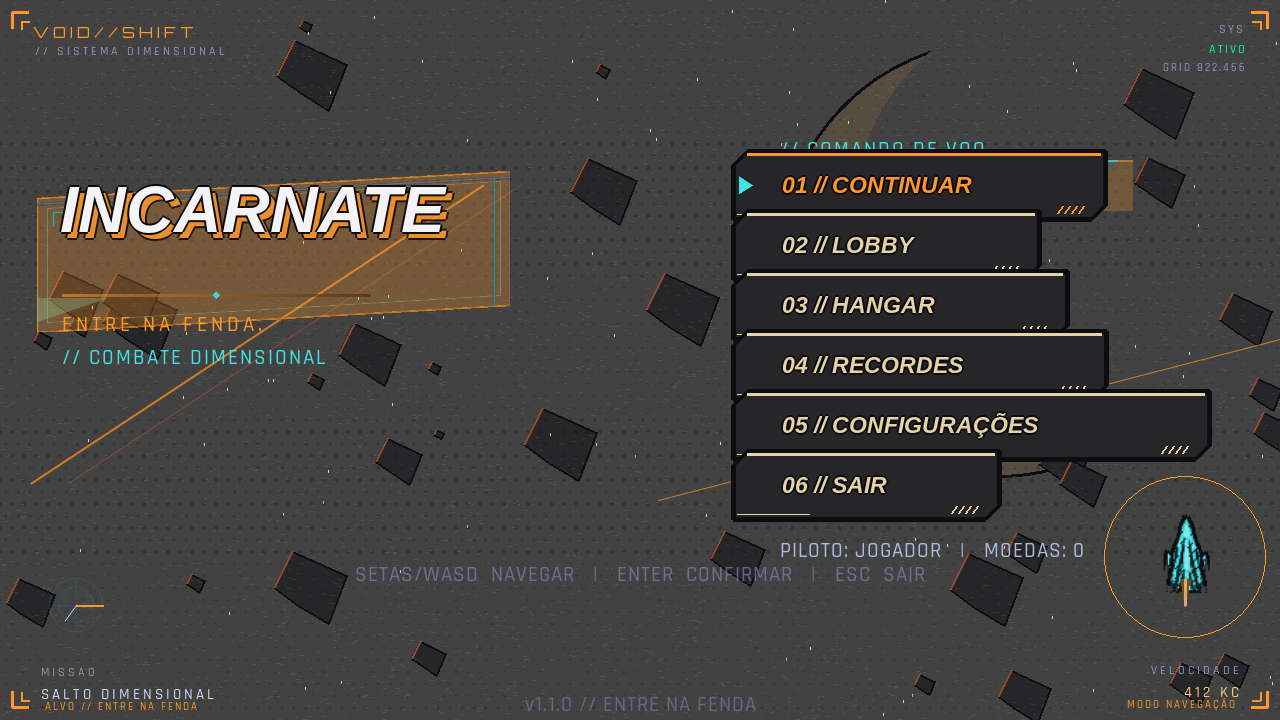
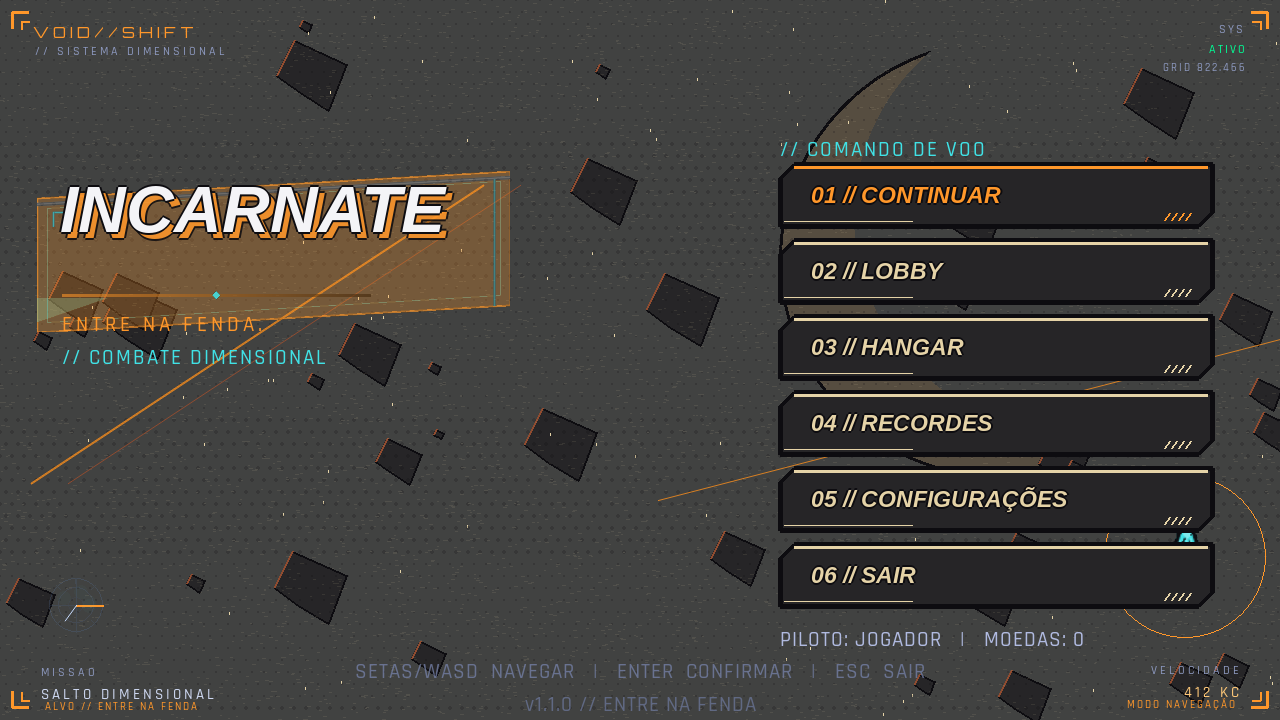
fix: uniformiza opcoes e remove indicador do menu

diff --git a/src/runtime/presentation/menu.py b/src/runtime/presentation/menu.py
@@ -84,12 +84,10 @@ def formatar_pontos(n):
 
 
 class OpcaoMenu:
-    """Opcao do menu principal com identidade visual forte na selecao.
+    """Opção do menu principal em um painel de tamanho uniforme."""
 
-    O item selecionado recebe fonte maior, glow, eco de glitch e uma linha
-    de acento; os demais permanecem discretos. A entrada e animada com um
-    deslocamento horizontal que se dissipa (efeito "saindo da tela").
-    """
+    LARGURA_PAINEL = 420
+    ALTURA_PAINEL = 60
 
     def __init__(self, texto, y, funcao):
         self.texto = texto
@@ -98,12 +96,10 @@ class OpcaoMenu:
         self.hover = False
 
     def get_rect(self, x, fonte, layout):
-        larg = fonte.size(self.texto)[0]
-        alt = fonte.get_height()
-        pad_x = layout.px(46)
-        pad_y = layout.px(16)
-        return pygame.Rect(x - pad_x, self.y - alt // 2 - pad_y,
-                           larg + pad_x * 2, alt + pad_y * 2)
+        """Retorna a mesma área de interação para todas as opções."""
+        largura = layout.px(self.LARGURA_PAINEL)
+        altura = layout.px(self.ALTURA_PAINEL)
+        return pygame.Rect(x, self.y - altura // 2, largura, altura)
 
     def atualizar(self, mouse_pos, x, fonte, layout):
         self.hover = self.get_rect(x, fonte, layout).collidepoint(mouse_pos)
@@ -129,7 +125,7 @@ class OpcaoMenu:
             self._blit(tela, painel, rect.centerx, rect.centery, alfa, centrado=True)
             surf = texto_tinta(self.texto, max(12, int(fonte.get_height() * .65)),
                               LARANJA if selecionado else PAPEL)
-            self._blit(tela, surf, x + deslocamento, self.y, alfa)
+            self._blit(tela, surf, rect.x + layout.px(28), self.y, alfa)
             return
         primaria = tema["primaria"]
         secundaria = tema["secundaria"]
@@ -144,12 +140,14 @@ class OpcaoMenu:
         surf = texto_suave(fonte_ativa, self.texto, cor,
                            primaria if selecionado else None,
                            5 if selecionado else 0, True)
-        self._blit(tela, surf, xf, y, alfa)
+        rect = self.get_rect(xf, fonte, layout)
+        self._blit(tela, surf, rect.x + layout.px(28), y, alfa)
         if selecionado and alfa >= 255:
             larg = fonte_ativa.size(self.texto)[0]
             linha_suave(tela, primaria,
-                         (xf, y + fonte_ativa.get_height() // 2 + layout.px(4)),
-                         (xf + larg,
+                         (rect.x + layout.px(28),
+                          y + fonte_ativa.get_height() // 2 + layout.px(4)),
+                         (rect.x + layout.px(28) + larg,
                           y + fonte_ativa.get_height() // 2 + layout.px(4)), 3)
 
 
@@ -584,15 +582,14 @@ class MenuPrincipal:
         ]
         # ancora a coluna alinhada a esquerda: nunca deixa o texto mais longo
         # estourar a borda direita da tela (usa a fonte da opcao selecionada)
-        largura_max = max(self.fonte_opcao_sel.size(texto)[0]
-                          for texto, _ in itens)
+        largura_max = self.layout.px(OpcaoMenu.LARGURA_PAINEL)
         x_max = self.layout.largura - largura_max - self.layout.px(24)
         self.x_opcoes = min(self.layout.x(0.61), x_max)
-        y = self.layout.px(180)
+        y = self.layout.px(190)
         self.opcoes = []
         for texto, funcao in itens:
             self.opcoes.append(OpcaoMenu(texto, y, funcao))
-            y += self.layout.px(58)
+            y += self.layout.px(74)
         self.opcao_selecionada = 0
         self.destaque.y = self.opcoes[0].y
         self.destaque.alvo = self.opcoes[0].y
@@ -2223,11 +2220,11 @@ class MenuPrincipal:
             self.jogo.nome_jogador.upper(),
             formatar_pontos(self.jogo.loja.moedas))
         surf = self._espacado(f, linha, 1, (176, 186, 224))
-        self._blit_alfa(tela, surf, (self.x_opcoes, l.y(0.746)), alfa)
+        self._blit_alfa(tela, surf, (self.x_opcoes, l.y(0.87)), alfa)
         hint = "SETAS/WASD  NAVEGAR   |   ENTER  CONFIRMAR   |   ESC  SAIR"
         surf2 = self._espacado(f, hint, 1, (118, 130, 170))
         self._blit_alfa(tela, surf2,
-                        (l.largura // 2 - surf2.get_width() // 2, l.y(0.78)),
+                        (l.largura // 2 - surf2.get_width() // 2, l.y(0.915)),
                         int(alfa * 0.75))
         versao = self._espacado(f, "v1.1.0 // ENTRE NA FENDA", 1,
                                 (110, 122, 160))
@@ -2249,17 +2246,12 @@ class MenuPrincipal:
                             (self.x_opcoes, self.layout.px(132)),
                             int(255 * ease_out(p_rot)))
 
-        if self.entrada_t > 0.25:
-            self.destaque.desenhar(tela, self.x_opcoes -
-                                   self.layout.px(32), tema)
-
         for i, opcao in enumerate(self.opcoes):
             p = self._frac(0.34 + i * 0.07, 0.42)
             desloc = int((1 - ease_out(p)) * 150)
             opcao.desenhar(tela, self.fonte_opcao, self.fonte_opcao_sel,
                            tema, self.x_opcoes, i == self.opcao_selecionada,
                            desloc, int(255 * ease_out(p)), self.layout)
-        self._desenhar_seta(tela, tema)
         self._desenhar_rodape(tela, tema)
 
     def desenhar(self, tela):

diff --git a/src/runtime/presentation/screens/main_menu_screen.py b/src/runtime/presentation/screens/main_menu_screen.py
@@ -31,15 +31,12 @@ class TelaPrincipalJogo:
                                     tema["secundaria"])
             menu._blit_alfa(tela, rotulo, (menu.x_opcoes, menu.layout.px(132)),
                             int(255 * ease_out(progresso)))
-        if menu.entrada_t > 0.25:
-            menu.destaque.desenhar(tela, menu.x_opcoes - menu.layout.px(32), tema)
         for indice, opcao in enumerate(menu.opcoes):
             progresso = menu._frac(0.34 + indice * 0.07, 0.42)
             deslocamento = int((1 - ease_out(progresso)) * 150)
             opcao.desenhar(tela, menu.fonte_opcao, menu.fonte_opcao_sel, tema,
                            menu.x_opcoes, indice == menu.opcao_selecionada,
                            deslocamento, int(255 * ease_out(progresso)), menu.layout)
-        menu._desenhar_seta(tela, tema)
         menu._desenhar_rodape(tela, tema)
 
     def tratar_tecla(self, evento: pygame.event.Event) -> bool:

diff --git a/tests/test_menu.py b/tests/test_menu.py
@@ -58,6 +58,16 @@ def test_construcao_subestado_e_opcoes():
     assert menu.x_opcoes <= menu.layout.largura
 
 
+def test_opcoes_principais_tem_tamanho_uniforme_e_nao_usam_indicador_antigo():
+    """Todos os painéis compartilham a área; seleção não cria bloco extra."""
+    _, menu = novo_menu()
+    rects = [opcao.get_rect(menu.x_opcoes, menu.fonte_opcao, menu.layout)
+             for opcao in menu.opcoes]
+    assert {rect.size for rect in rects} == {rects[0].size}
+    assert all(b.top - a.bottom > 0 for a, b in zip(rects, rects[1:]))
+    assert menu.destaque.y == menu.opcoes[0].y  # estado mantido para compatibilidade
+
+
 def test_menu_widescreen_separa_titulo_da_coluna_de_opcoes():
     _, menu = novo_menu()
 

diff --git a/CHANGELOG.md b/CHANGELOG.md
@@ -31,6 +31,8 @@ and this project adheres to [Semantic Versioning](https://semver.org/spec/v2.0.0
 - Save/records persistence in JSON
 
 ### Changed
+- Maior espaçamento entre as opções do menu principal, eliminando sobreposição
+  das áreas de clique e reposicionando o rodapé conforme o layout responsivo.
 - Restructured codebase into src/ package with hexagonal architecture
 - Separated domain logic from presentation and infrastructure
 - Extracted combat, progression, and collision into dedicated systems
